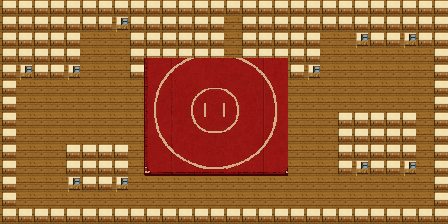
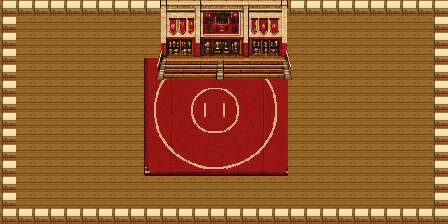
Fix Field House occlusion and tile readability

Changed region(s): [[0.0312, 0.0, 0.9688, 0.375], [0.75, 0.5, 0.9375, 0.7812], [0.125, 0.625, 0.3125, 0.875]]

diff --git a/tests/production-smoke.spec.js b/tests/production-smoke.spec.js
@@ -60,10 +60,10 @@ async function completeOpeningToOverworld(page) {
 test('production build boots with runtime assets', async ({page}) => {
   const runtimeIssues = collectRuntimeIssues(page);
   await openTestBuild(page);
-  await expect.poll(async () => page.evaluate(() => window.BADGER_VERSION)).toBe('21.40-visual-overhaul');
+  await expect.poll(async () => page.evaluate(() => window.BADGER_VERSION)).toBe('21.41-fieldhouse-readability');
 
   const textureReport = await page.evaluate(() => {
-    const keys = ['title_bg', 'player', 'npc', 'area_campus', 'area_downtown', 'area_studyhall', 'fr1_campus_tree', 'fr2_campus_red_hall', 'fr2_fieldhouse_wall', 'fr2_state_storefronts', 'fr2_kohl_center', 'fr2_capitol_grand', 'battle_arena', 'battle_badger'];
+    const keys = ['title_bg', 'player', 'npc', 'area_campus', 'area_downtown', 'area_studyhall', 'fr1_campus_tree', 'fr2_campus_red_hall', 'fr2_state_storefronts', 'fr2_kohl_center', 'fr2_capitol_grand', 'battle_arena', 'battle_badger'];
     return keys.map(key => {
       const texture = window.badgerGame?.textures?.get(key);
       const source = texture?.getSourceImage?.();
@@ -109,7 +109,7 @@ test('opening flow reaches the first controllable overworld moment', async ({pag
       worldIgnoresUi: true,
       uiIgnoresWorld: true
     },
-    layered: {version: 1, upperCount: 7, directActorDepth: true}
+    layered: {version: 1, upperCount: 6, directActorDepth: true}
   });
 
   const save = await page.evaluate(() => window.__badgerTest.storage());
@@ -121,6 +121,22 @@ test('opening flow reaches the first controllable overworld moment', async ({pag
   expect(save.party).toHaveLength(1);
   expect(save.flags.introDone).toBe(true);
   expect(save.message).toContain('Coach is waiting');
+  expect(runtimeIssues).toEqual([]);
+});
+
+test('Field House scenic wall never enters the player occlusion layer', async ({page}) => {
+  const runtimeIssues = collectRuntimeIssues(page);
+  await page.addInitScript(() => localStorage.removeItem('badger_grapple_red_engine_v2'));
+  await page.goto('/?test=1&scene=overworld&area=fieldhouse&x=14&y=3');
+  await expect(page.locator('#bootError')).toBeHidden();
+  await expect(page.locator('canvas')).toBeVisible();
+  await expect.poll(async () => page.evaluate(() => window.__badgerTest.sceneState('OverworldScene'))).toMatchObject({
+    active: true,
+    tilePos: {x: 14, y: 3}
+  });
+  const overworld = await page.evaluate(() => window.__badgerTest.sceneState('OverworldScene'));
+  expect(overworld.layered.upperTextures).toContain('fr1_fieldhouse_exit');
+  expect(overworld.layered.upperTextures).not.toContain('fr2_fieldhouse_wall');
   expect(runtimeIssues).toEqual([]);
 });
 

diff --git a/index.html b/index.html
@@ -3,11 +3,11 @@
 <head>
 <meta charset="UTF-8" />
 <meta name="viewport" content="width=device-width, initial-scale=1.0, viewport-fit=cover" />
-<title>Badger Grapple Red - v21.40 Visual Overhaul</title>
+<title>Badger Grapple Red - v21.41 Field House Readability</title>
 <style>
 html,body{margin:0;padding:0;width:100%;height:100%;overflow:hidden;background:#050506;color:#f4e9c9;font-family:system-ui,-apple-system,BlinkMacSystemFont,"Segoe UI",sans-serif}#wrap{height:100%;display:flex;flex-direction:column;align-items:center;justify-content:center;padding:env(safe-area-inset-top) 8px calc(env(safe-area-inset-bottom) + 6px);background:linear-gradient(180deg,#15120f 0%,#070708 56%,#050506 100%);gap:8px}#bezel{width:min(100%,820px);display:flex;justify-content:center;padding:10px 10px 12px;border-radius:8px;background:#1b1c21;box-shadow:inset 0 1px 0 rgba(255,255,255,.08),inset 0 -2px 0 rgba(0,0,0,.55),0 12px 28px rgba(0,0,0,.42)}#game{width:auto;height:auto;max-width:96vw;max-height:60vh;aspect-ratio:320/224;display:flex;align-items:center;justify-content:center;background:#000;margin:0 auto}canvas{width:100%!important;height:100%!important;display:block;image-rendering:pixelated;image-rendering:crisp-edges;border-radius:4px;box-shadow:0 0 0 2px #030303,0 0 0 5px #7e1621,0 0 0 7px #d4a746;aspect-ratio:320/224}.controls{width:min(100%,610px);display:grid;grid-template-columns:172px 1fr;grid-template-rows:130px 36px;grid-template-areas:"dpad face" "system system";column-gap:24px;row-gap:8px;align-items:center;padding:12px 16px 10px;box-sizing:border-box;border-radius:8px;background:linear-gradient(145deg,#2a2231 0%,#18171d 62%,#111116 100%);box-shadow:inset 0 1px 0 rgba(255,255,255,.12),inset 0 -2px 0 rgba(0,0,0,.6),0 12px 24px rgba(0,0,0,.38)}button{font:inherit;border:0;font-weight:900;text-transform:uppercase;touch-action:manipulation;user-select:none;-webkit-user-select:none}button:active{transform:translateY(2px)}.dpad{grid-area:dpad;display:grid;grid-template-columns:56px 56px 56px;grid-template-rows:40px 50px 40px;gap:0;justify-content:start;align-content:center}.dpad button,.dpad-center{width:56px;height:50px;display:flex;align-items:center;justify-content:center;background:linear-gradient(180deg,#f1f1ef,#c9c9c6);color:#9b9b98;text-shadow:0 1px 0 #fff;box-shadow:inset 0 2px 3px rgba(255,255,255,.72),inset 0 -4px 4px rgba(0,0,0,.16),0 4px 0 #2d2632,0 7px 10px rgba(0,0,0,.38);font-size:24px}.dpad .up{grid-column:2;grid-row:1;border-radius:14px 14px 4px 4px;height:56px}.dpad .left{grid-column:1;grid-row:2;border-radius:14px 4px 4px 14px}.dpad-center{grid-column:2;grid-row:2;border-radius:4px;position:relative}.dpad-center:after{content:"";width:27px;height:27px;border-radius:50%;background:#c9c9c7;box-shadow:inset 0 2px 4px rgba(0,0,0,.13),inset 0 -1px 1px rgba(255,255,255,.62)}.dpad .right{grid-column:3;grid-row:2;border-radius:4px 14px 14px 4px}.dpad .down{grid-column:2;grid-row:3;border-radius:4px 4px 14px 14px;height:56px;margin-top:-16px}.face{grid-area:face;position:relative;height:130px;min-width:170px}.face button{position:absolute;width:68px;height:68px;border-radius:50%;background:linear-gradient(180deg,#f7f7f5,#cfcfcb);color:#aaa9a5;font-size:30px;text-shadow:0 1px 0 #fff;box-shadow:inset 0 3px 4px rgba(255,255,255,.78),inset 0 -5px 5px rgba(0,0,0,.18),0 5px 0 #2d2632,0 9px 13px rgba(0,0,0,.38)}.face .b{left:6px;bottom:20px}.face .a{right:6px;top:10px}.system{grid-area:system;display:grid;grid-template-columns:1fr 1fr 1fr 22px;gap:18px;align-items:end}.system button{height:28px;border-radius:999px;background:linear-gradient(180deg,#efefec,#c9c9c5);color:#2b2330;font-size:13px;letter-spacing:0;box-shadow:inset 0 1px 2px rgba(255,255,255,.75),inset 0 -3px 4px rgba(0,0,0,.16),0 4px 0 #2d2632}.system .led{width:18px;height:18px;border-radius:50%;justify-self:end;align-self:center;background:#28d63c;box-shadow:0 0 0 2px #134b19,inset 0 2px 3px rgba(255,255,255,.45),0 0 9px rgba(40,214,60,.8)}#note{font-size:10px;text-align:center;color:#a79979;margin-top:0;min-height:12px;text-shadow:0 1px 0 #000}@media(max-width:720px){#wrap{gap:7px}#bezel{padding:7px;width:min(100%,98vw)}#game{max-height:52vh}.controls{width:min(100%,98vw);grid-template-columns:164px 1fr;grid-template-rows:124px 34px;column-gap:16px;padding:10px 12px 9px}.dpad{grid-template-columns:52px 52px 52px;grid-template-rows:38px 48px 38px}.dpad button,.dpad-center{width:52px;height:48px}.dpad .up,.dpad .down{height:54px}.dpad .down{margin-top:-16px}.face{height:124px;min-width:150px}.face button{width:64px;height:64px;font-size:28px}.face .b{left:0;bottom:18px}.face .a{right:0;top:8px}.system{gap:12px}.system button{height:27px;font-size:12px}}@media(max-width:360px){.controls{grid-template-columns:150px 1fr;column-gap:10px;padding-left:9px;padding-right:9px}.dpad{grid-template-columns:48px 48px 48px}.dpad button,.dpad-center{width:48px}.face button{width:58px;height:58px}.system{gap:8px}.system button{font-size:11px}}
 #bootError{display:none;position:fixed;left:10px;right:10px;top:calc(env(safe-area-inset-top) + 10px);z-index:9999;background:#2b1111;color:#fff;border:2px solid #d6a336;border-radius:10px;padding:10px;font:12px/1.35 monospace;white-space:pre-wrap}</style>
-<script src="./vendor/phaser.min.js?v=240"></script>
+<script src="./vendor/phaser.min.js?v=241"></script>
 </head>
 <body>
 <div id="bootError"></div>
@@ -32,8 +32,8 @@ html,body{margin:0;padding:0;width:100%;height:100%;overflow:hidden;background:#
       <span class="led" aria-hidden="true"></span>
     </div>
   </div>
-  <div id="note">v21.40 Visual Overhaul</div>
+  <div id="note">v21.41 Field House Readability</div>
 </div>
-<script type="module" src="./src/main.js?v=240"></script>
+<script type="module" src="./src/main.js?v=241"></script>
 </body>
 </html>

diff --git a/src/systems/testHooks.js b/src/systems/testHooks.js
@@ -32,7 +32,8 @@ export function installTestHooks(game, routeVirtualButton) {
         version: scene.layeredMapVersion,
         upperCount: scene.upperObjects?.length || 0,
         directActorDepth: Array.isArray(scene.actors),
-        upperDepths: (scene.upperObjects || []).map(obj => obj.depth)
+        upperDepths: (scene.upperObjects || []).map(obj => obj.depth),
+        upperTextures: (scene.upperObjects || []).map(obj => obj.texture?.key || null)
       } : null,
       camera: scene.worldCamera && scene.uiCamera ? {
         count: scene.cameras.cameras.length,

diff --git a/src/main.js b/src/main.js
@@ -3,7 +3,7 @@ const fail=(msg)=>{console.error(msg);const el=document.getElementById('bootErro
 if(!window.Phaser){fail('Phaser did not load from ./vendor/phaser.min.js');throw new Error('Phaser missing');}
 const Phaser = window.Phaser;
 const config={type:Phaser.AUTO,parent:'game',backgroundColor:'#000',pixelArt:true,roundPixels:true,width:320,height:224,scale:{mode:Phaser.Scale.FIT,autoCenter:Phaser.Scale.CENTER_BOTH},render:{antialias:false,pixelArt:true,roundPixels:true},audio:{noAudio:true},scene:[BootScene,TitleScene,IntroScene,StarterScene,OverworldScene,ScoutScene,BattleScene,MenuScene]};
-let game;try{game=new Phaser.Game(config);window.badgerGame=game;window.BADGER_VERSION='21.40-visual-overhaul';}catch(e){fail(e?.stack||e?.message||String(e));throw e;}
+let game;try{game=new Phaser.Game(config);window.badgerGame=game;window.BADGER_VERSION='21.41-fieldhouse-readability';}catch(e){fail(e?.stack||e?.message||String(e));throw e;}
 function routeVirtualButton(key){const priority=['MenuScene','BattleScene','ScoutScene','StarterScene','TitleScene','OverworldScene'];for(const sceneKey of priority){const scene=game.scene.getScene(sceneKey);if(scene&&scene.scene&&scene.scene.isActive()&&scene.handleVirtualButton){scene.handleVirtualButton(key);return;}}const fallback=window.__fallbackControlScene;if(fallback&&fallback.handleVirtualButton)fallback.handleVirtualButton(key);}
 window.engineControl=routeVirtualButton;
 installTestHooks(game,routeVirtualButton);

diff --git a/src/scenes/BootScene.js b/src/scenes/BootScene.js
@@ -2,7 +2,7 @@ import {chooseStarter,saveState} from '../systems/save.js';
 import {setVirtualHandler} from '../systems/ui.js';
 import {LAYERED_UPPER_TEXTURES} from '../data/layeredMaps.js';
 const Phaser = window.Phaser;
-const V='240';
+const V='241';
 export class BootScene extends Phaser.Scene{
   constructor(){super('BootScene');}
   preload(){

diff --git a/src/scenes/TitleScene.js b/src/scenes/TitleScene.js
@@ -2,7 +2,7 @@ import {loadState,resetState,caughtRecruitCount} from '../systems/save.js';impor
 const Phaser = window.Phaser;
 export class TitleScene extends Phaser.Scene{
   constructor(){super('TitleScene');}
-  create(){this.state=loadState();setMuted(this.state.audioMuted);playMusic('title');this.sel=this.state.party?.length?1:0;this.opts=['NEW GAME','CONTINUE','RESET'];this.cameras.main.setBackgroundColor('#1d2634');this.add.image(0,0,'title_bg').setOrigin(0).setDisplaySize(320,224);this.add.text(160,20,'BADGER GRAPPLE RED',{fontFamily:'monospace',fontSize:17,color:'#f8f0d8',fontStyle:'bold',stroke:'#111',strokeThickness:4}).setOrigin(.5);this.add.text(160,44,'CAMPAIGN v21.40 PLAYABLE',{fontFamily:'monospace',fontSize:9,color:'#ffe28a',fontStyle:'bold',stroke:'#111',strokeThickness:2}).setOrigin(.5);uiBox(this,56,136,208,68);this.menuText=this.add.text(74,148,'',{fontFamily:'monospace',fontSize:10,color:'#111',fontStyle:'bold',lineSpacing:4});this.stat=this.add.text(182,150,'',{fontFamily:'monospace',fontSize:9,color:'#444',lineSpacing:3});this.input.keyboard.on('keydown-UP',()=>this.move(-1));this.input.keyboard.on('keydown-DOWN',()=>this.move(1));this.input.keyboard.on('keydown-ENTER',()=>this.choose());this.input.keyboard.on('keydown-SPACE',()=>this.choose());setVirtualHandler(this);this.render();}
+  create(){this.state=loadState();setMuted(this.state.audioMuted);playMusic('title');this.sel=this.state.party?.length?1:0;this.opts=['NEW GAME','CONTINUE','RESET'];this.cameras.main.setBackgroundColor('#1d2634');this.add.image(0,0,'title_bg').setOrigin(0).setDisplaySize(320,224);this.add.text(160,20,'BADGER GRAPPLE RED',{fontFamily:'monospace',fontSize:17,color:'#f8f0d8',fontStyle:'bold',stroke:'#111',strokeThickness:4}).setOrigin(.5);this.add.text(160,44,'CAMPAIGN v21.41 PLAYABLE',{fontFamily:'monospace',fontSize:9,color:'#ffe28a',fontStyle:'bold',stroke:'#111',strokeThickness:2}).setOrigin(.5);uiBox(this,56,136,208,68);this.menuText=this.add.text(74,148,'',{fontFamily:'monospace',fontSize:10,color:'#111',fontStyle:'bold',lineSpacing:4});this.stat=this.add.text(182,150,'',{fontFamily:'monospace',fontSize:9,color:'#444',lineSpacing:3});this.input.keyboard.on('keydown-UP',()=>this.move(-1));this.input.keyboard.on('keydown-DOWN',()=>this.move(1));this.input.keyboard.on('keydown-ENTER',()=>this.choose());this.input.keyboard.on('keydown-SPACE',()=>this.choose());setVirtualHandler(this);this.render();}
   handleVirtualButton(k){unlockAudio();if(k==='up')this.move(-1);if(k==='down')this.move(1);if(k==='a')this.choose();if(k==='b'){resetState();this.state=loadState();this.render();}}
   move(d){this.sel=Phaser.Math.Wrap(this.sel+d,0,this.opts.length);this.render();}
   render(){this.menuText.setText(this.opts.map((o,i)=>`${i===this.sel?'▶':' '} ${o}`).join('\n'));const s=this.state.stats||{};this.stat.setText(`Roster ${caughtRecruitCount(this.state)}\nWins ${s.wins||0}\nScout ${s.scouts||0}${this.state.tournament?.champion?'\nCHAMPION':''}`);}

diff --git a/tools/build_wp1_terrain.py b/tools/build_wp1_terrain.py
@@ -633,8 +633,15 @@ def compose(area, tiles, props):
         for y in range(height):
             for x in range(width):
                 if g[y][x] == "#":
-                    top_wall = y < height - 1 and not blocked(g, x, y + 1)
-                    paint(img, tiles, ("window" if x % 3 == 1 and top_wall else "interior_wall"), x, y)
+                    if area == "fieldhouse" and 0 < x < width - 1 and 0 < y < height - 1:
+                        # Fixture collision sits over the same wood floor as
+                        # the walkable room. The transparent prop supplies the
+                        # visible object; fake wall/window blocks must not show
+                        # through its gaps.
+                        paint(img, tiles, "floor0" if (x + y) % 2 else "floor1", x, y)
+                    else:
+                        top_wall = y < height - 1 and not blocked(g, x, y + 1)
+                        paint(img, tiles, ("window" if x % 3 == 1 and top_wall else "interior_wall"), x, y)
     elif area in {"lakeshore", "river"}:
         pass  # blocked mass is the water, already drawn
     # campus blocked dressing happens below (buildings + assembled trees)

diff --git a/AGENT_HANDOFF.md b/AGENT_HANDOFF.md
@@ -1,6 +1,27 @@
 # Agent Handoff
 
-## Latest Codex Turn (v21.40 - Field House / Bascom / State Visual Overhaul)
+## Latest Codex Turn (v21.41 - Field House Readability Correction)
+
+- Tony's phone screenshot exposed two v21.40 defects that static QA missed:
+  the player could disappear behind the full trophy/bleacher wall, and
+  transparent prop gaps exposed repeated white/brown collision wall tiles.
+- Root cause: `fr2_fieldhouse_wall` was incorrectly in `upperDecor` at
+  depthY 4.5. It is now baked into `lowerDecor`; only the actual entrance
+  lintel remains depth-aware. The player stays visible throughout the center
+  approach and only tucks at the exit tile.
+- Field House interior collision footprints now render the same wood floor as
+  the room beneath transparent fixtures. The wall/window tile is reserved for
+  the one-tile perimeter, removing the incoherent checker blocks.
+- Removed the unused runtime `fr2_fieldhouse_wall` layer texture. Added test
+  hooks for upper texture identities and a regression test that proves the
+  scenic wall can never re-enter the occlusion layer.
+- Phone QA reproduces Tony's exact upper-center corridor at 390x844: full
+  player visible, continuous wood floor, readable entrance, clean logs.
+- Release/cache labels are v21.41 / v241. Smoke suite is 11/11 green.
+- Process correction: every future visual pass must walk all playable rows
+  around every new upper prop; static spawn screenshots are insufficient.
+
+## Previous Codex Turn (v21.40 - Field House / Bascom / State Visual Overhaul)
 
 - Used built-in ChatGPT image generation for a new six-subject Madison
   architecture sheet and a dedicated weathered outdoor practice mat. Sources

diff --git a/VISUAL_OVERHAUL_GUIDE.md b/VISUAL_OVERHAUL_GUIDE.md
@@ -21,6 +21,9 @@
 > FR2 shipped in v21.40: Field House, Bascom Hill, and State Street were
 > recomposed around larger image-generated landmark masses, honest depth and
 > collision, and phone-scale focal hierarchy. FR3 character variety is next.
+> v21.41 correction: scenic architecture belongs in the lower map. Only narrow
+> edges that should genuinely cover a character (door lintels, canopies) may
+> enter `upperDecor`. QA must walk every row around each upper prop.
 
 **For: Codex (ChatGPT), the project's art lane.** This is a complete, sequenced
 production plan to take the game's visuals to the FireRed bar. It is grounded